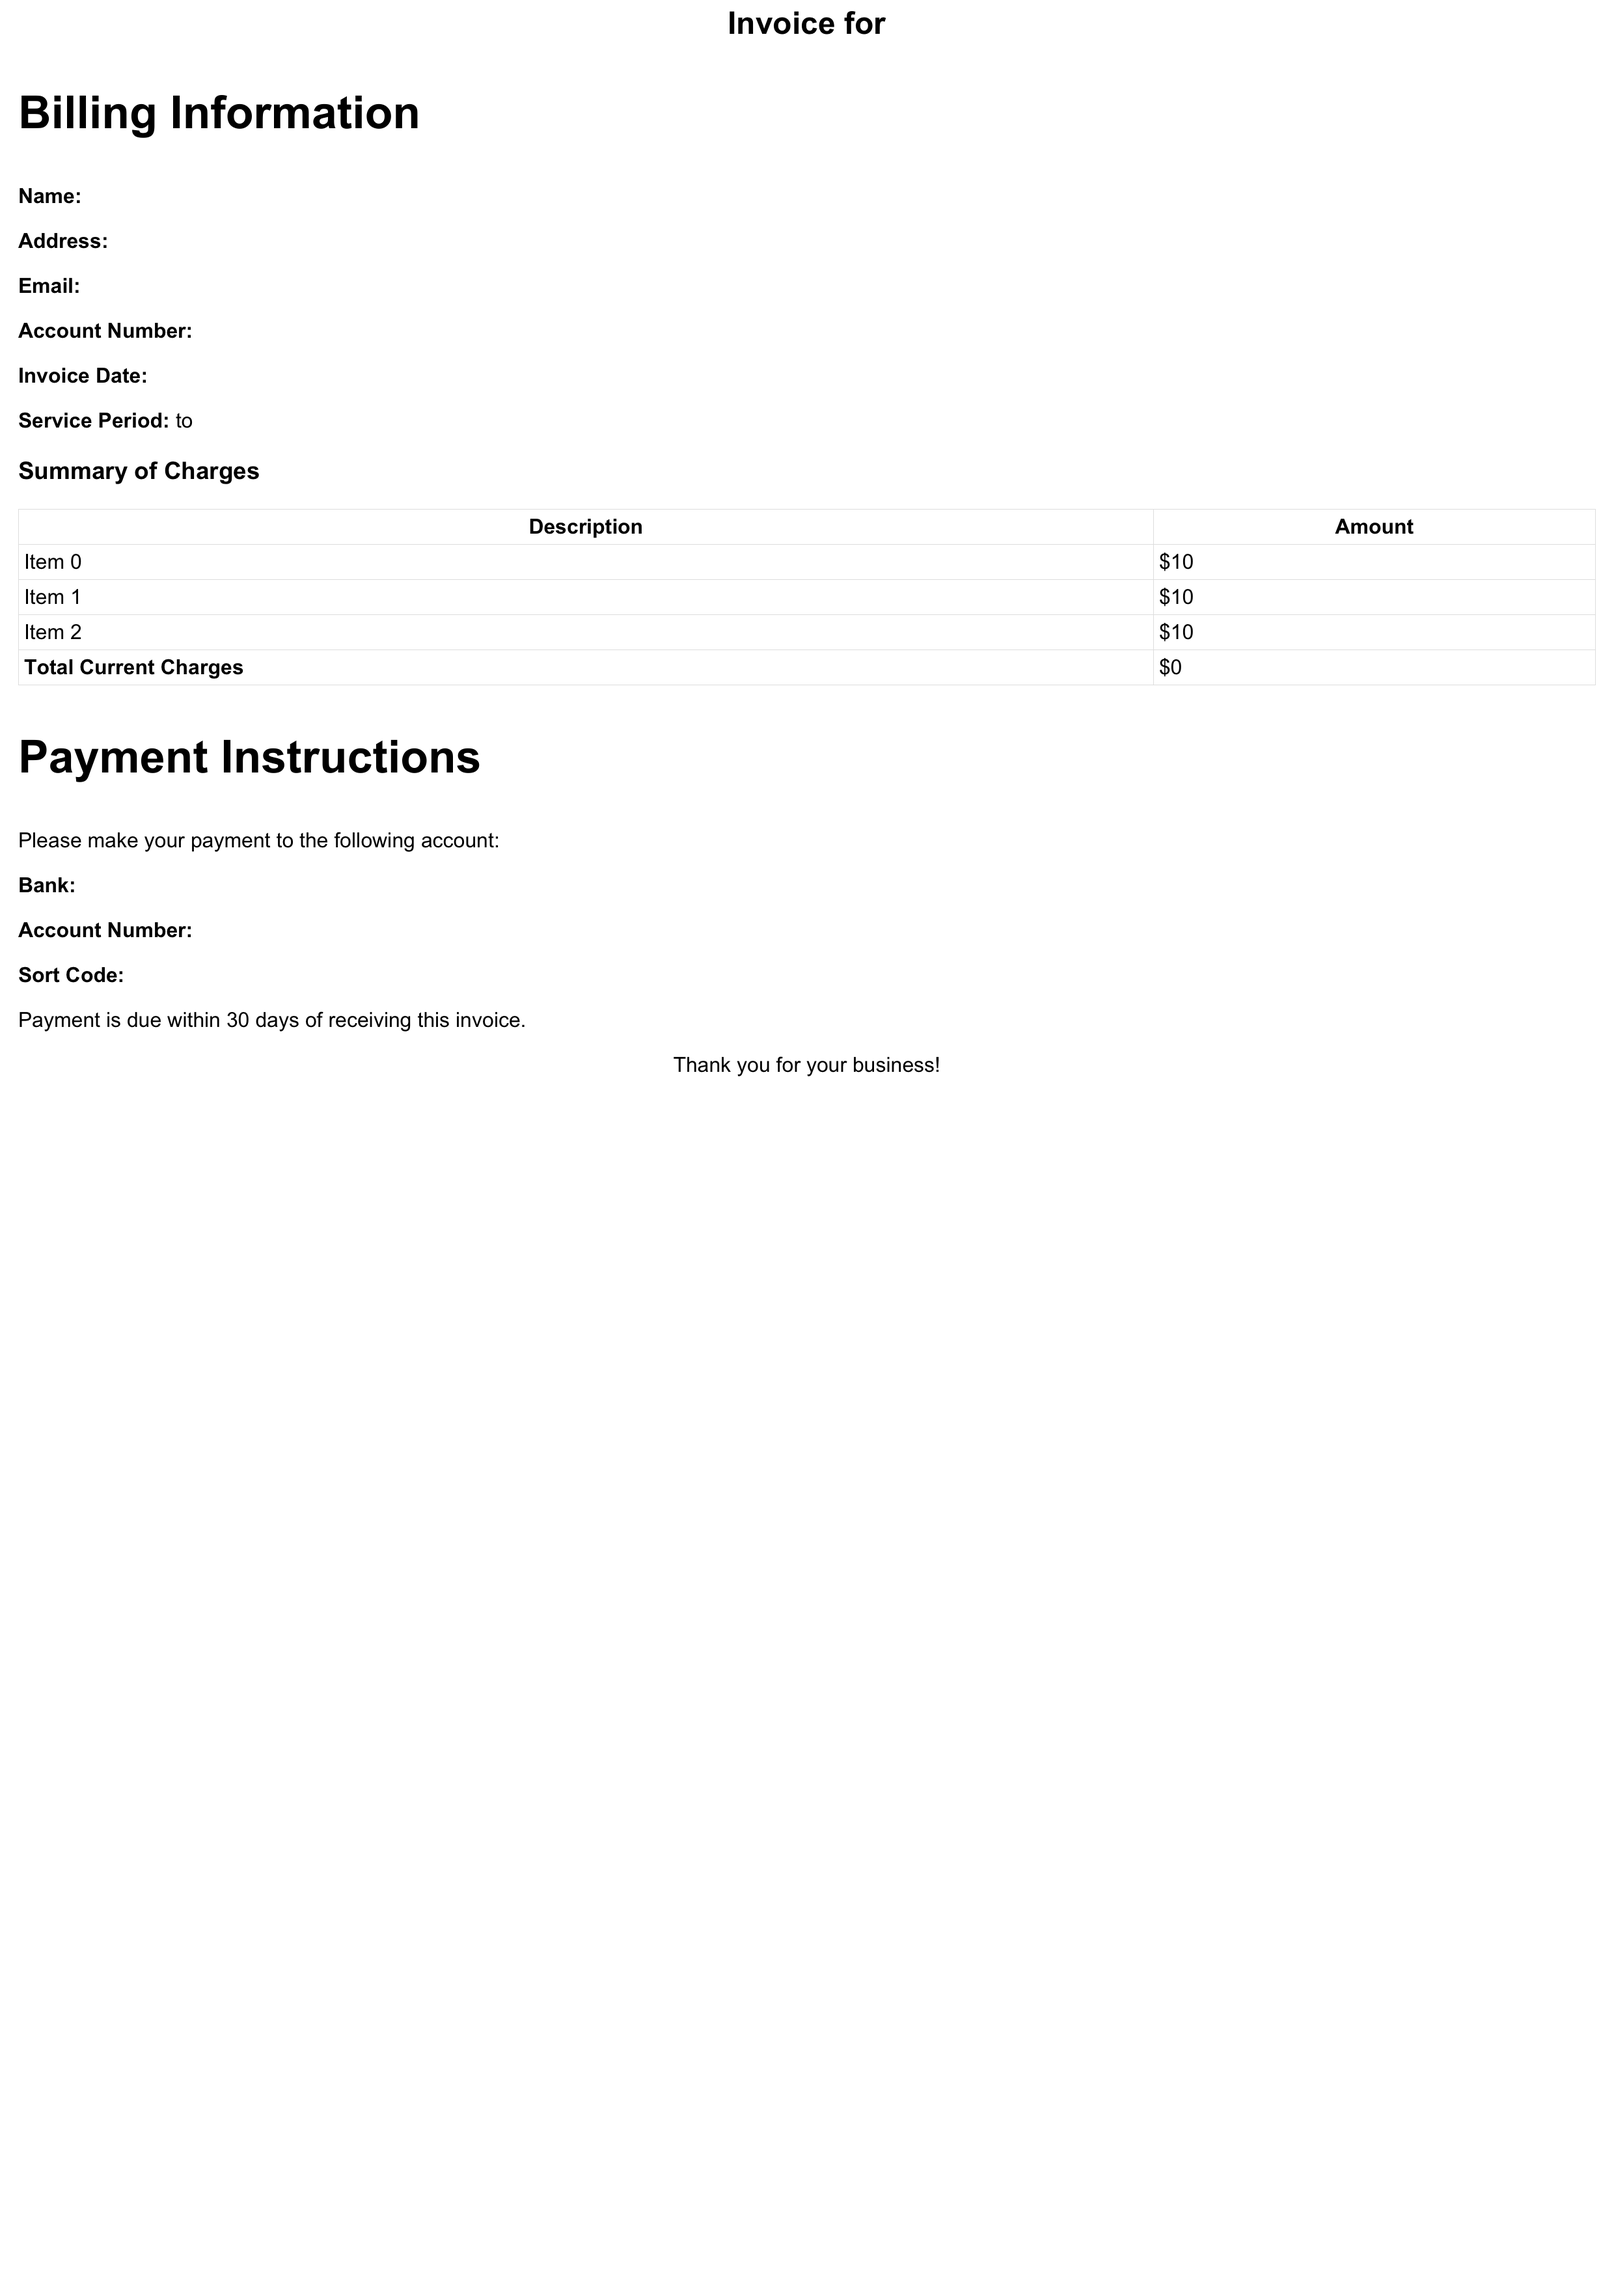
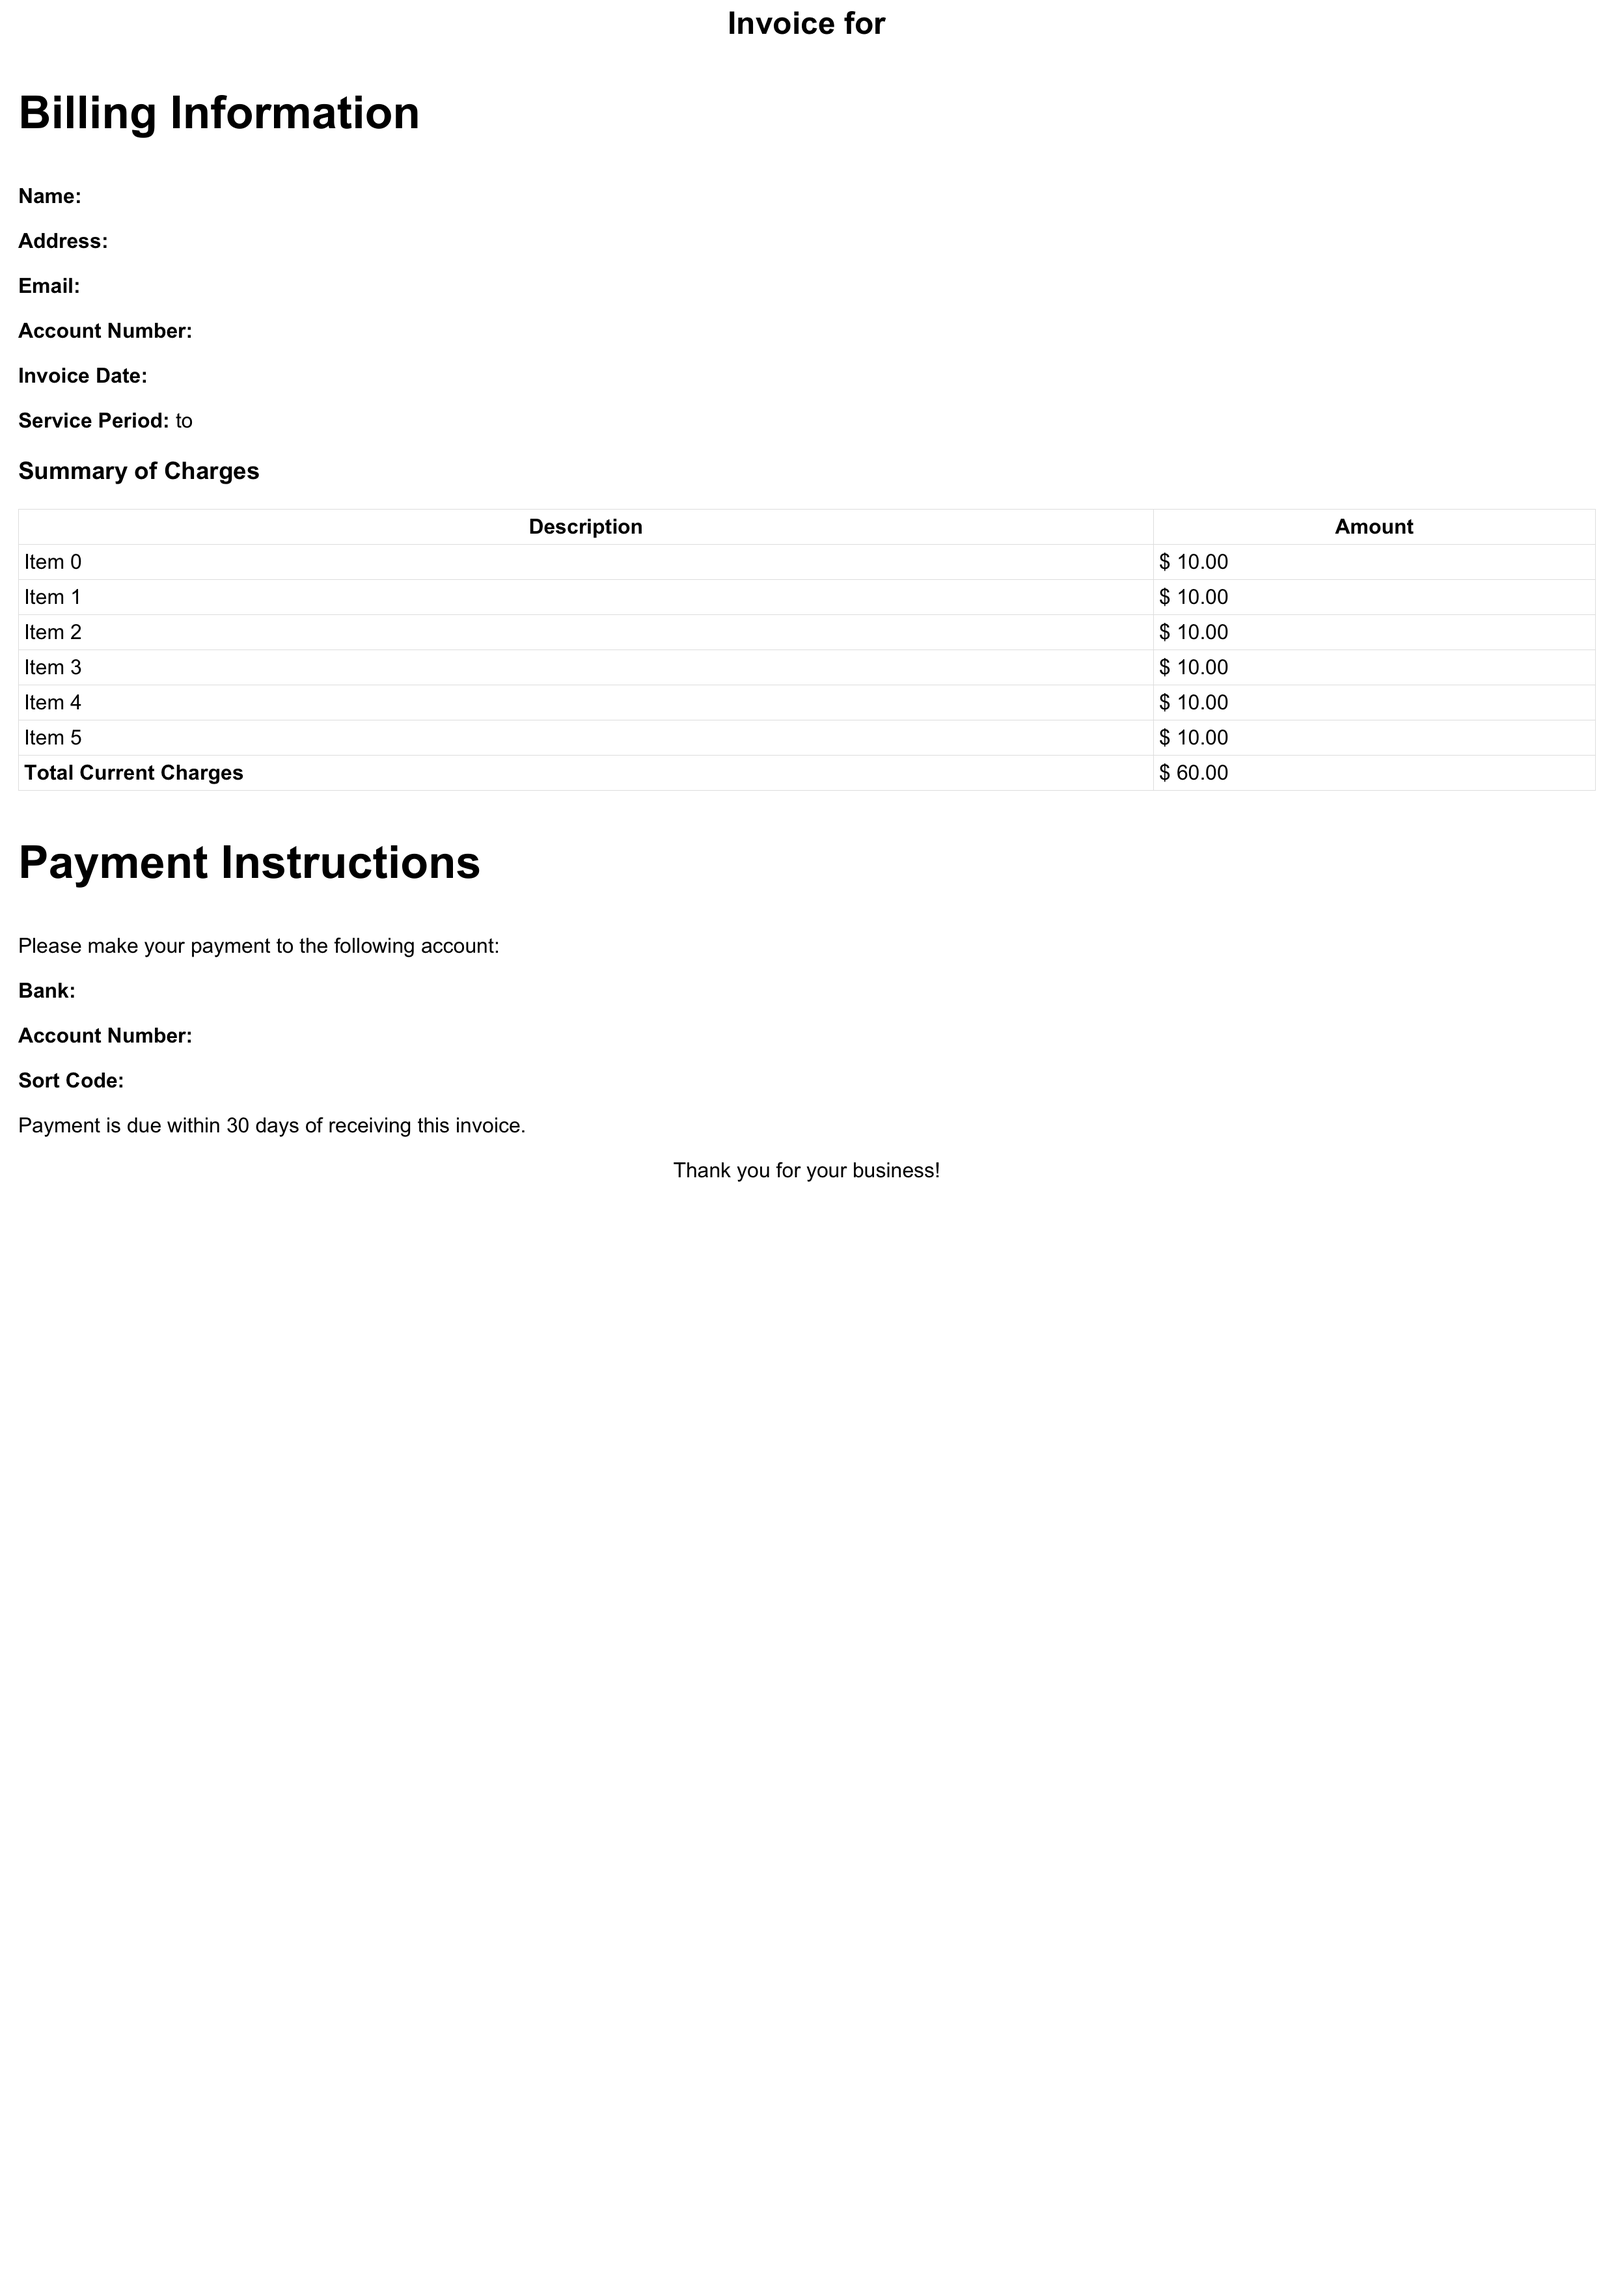
table fix | added terms

Changed region(s): [[0.0, 0.2796, 0.3105, 0.4971], [0.7141, 0.2486, 0.7762, 0.3418]]

diff --git a/synth_data_gen/templates/test.html b/synth_data_gen/templates/test.html
@@ -5,8 +5,9 @@
 <head>
     <meta charset="UTF-8">
     <meta name="viewport" content="width=device-width, initial-scale=1.0">
+    <link rel="stylesheet" href="static/style.css"/>
     <title>Invoice</title>
-    <style>
+    <!-- <style>
         /* Add styles here for formatting the invoice */
         body { font-family: 'Arial', sans-serif; font-size: 2em; }
         .header, .footer { text-align: center; }
@@ -14,7 +15,7 @@
         table { width: 100%; border-collapse: collapse; }
         th, td { border: 1px solid #ddd; padding: 8px; font-size: 2em; }
         .billing-info h3, .payment-instructions h3 { font-size: 2.2em; }
-    </style>
+    </style> -->
 </head>
 <body>
     <div class="header">
@@ -47,6 +48,12 @@
         <p><strong>Account Number:</strong> <span class="bankAccountNumber" data-metatype="String">{{ bankAccountNumber }}</span></p>
         <p><strong>Sort Code:</strong> <span class="sortCode" data-metatype="String">{{ sortCode }}</span></p>
         <p>Payment is due within 30 days of receiving this invoice.</p>
+    </div>
+    <div class="terms">
+        {% set random_number = range(2) | random %}
+        {% if random_number == 1 %}
+            {{ terms }}
+        {% endif %}
     </div>
     <div class="footer">
         <p>Thank you for your business!</p>

diff --git a/synth_data_gen/templates/table_macro.html b/synth_data_gen/templates/table_macro.html
@@ -1,20 +1,19 @@
+{% from "utils_macro.html" import format_dollar_amount %}
 {% macro charges_table(charges) %}
-<table>
+<table class="invoice-table">
     <tr>
         <th>Description</th>
         <th>Amount</th>
-    </tr>
-    {% set totalCurrentCharges = 0 %}
+    </tr>    
     {% for charge in charges %}
-        {% set totalCurrentCharges = totalCurrentCharges + charge.amount %}
         <tr>
             <td>{{ charge.description }}</td>
-            <td>${{ charge.amount }}</td>
+            <td>${{ format_dollar_amount(charge.amount) }}</td>
         </tr>
     {% endfor %}
     <tr>
         <td><strong>Total Current Charges</strong></td>
-        <td><span class="totalCurrentCharges" data-metatype="Number">${{ totalCurrentCharges }}</span></td>
+        <td><span class="totalCurrentCharges" data-metatype="Number">${{ format_dollar_amount(charges | sum(attribute='amount')) }}</span></td>
     </tr>
 </table>
 {% endmacro %}

diff --git a/synth_data_gen/templates/static/style.css b/synth_data_gen/templates/static/style.css
@@ -1,0 +1,27 @@
+.invoice-table {
+    font-family: Arial, sans-serif;
+    width: 80%;
+    margin: 20px auto;
+    border-collapse: collapse;
+}
+
+.invoice-table table {
+    width: 100%;
+    border-collapse: collapse;
+}
+
+.invoice-table th, .invoice-table td {
+    border: 1px solid #ddd;
+    padding: 8px;
+    text-align: left;
+}
+
+.invoice-table th {
+    background-color: #f2f2f2;
+}
+
+.invoice-table tfoot td {
+    font-weight: bold;
+}
+
+.invoice-table tbody tr:nth-child(even){background-color: #f2f2f2;}

diff --git a/synth_data_gen/templates/utils_macro.html b/synth_data_gen/templates/utils_macro.html
@@ -1,0 +1,3 @@
+{% macro format_dollar_amount(value) %}
+    {{ '%0.2f' % value|float }}
+{% endmacro %}

diff --git a/synth_data_gen/generate_from_html.py b/synth_data_gen/generate_from_html.py
@@ -8,6 +8,7 @@ import matplotlib.pyplot as plt
 from faker import Faker
 from jinja2 import Environment, FileSystemLoader, Template
 import random
+from synth_data_gen.utils import read_file
 
 
 pipeline = default_augraphy_pipeline()
@@ -44,7 +45,7 @@ height = 3508
 
 
 
-for i in range(5):
+for i in range(1):
     # np_augmented = pipeline(np_img)
     # pil_augmented = Image.fromarray(np_augmented)
     template = env.get_template('test.html')  # Replace 'test.html' with your actual template name
@@ -66,8 +67,10 @@ for i in range(5):
         {"description": f'Item {i}', "amount": 10} for i in range(num_items)
     ]
 
+    terms = read_file('/Users/arnaudstiegler/llm-table-extraction/synth_data_gen/text_samples/terms.txt')
+
     # Render the template with data
-    output = template.render(charges=charges)    
+    output = template.render(charges=charges, terms=terms)    
 
     # Convert the HTML template to an image
     img = imgkit.from_string(output, None, options={'format': 'png', 'width': width, 'height': height})

diff --git a/synth_data_gen/utils.py b/synth_data_gen/utils.py
@@ -1,0 +1,4 @@
+
+def read_file(file_path):
+    with open(file_path, 'r') as file:
+        return file.read()

diff --git a/synth_data_gen/logs.md b/synth_data_gen/logs.md
@@ -1,4 +1,18 @@
+## Entry 03/25
+### TODO:
+- [x] Fix the jinja macro issue for the table
+- [x] Try creating a paragraph component
+- [] Try adding more "visual" elements to the page (randomizing the styling of the page?)
+- [] Fix the bug on getting style.css
+
 ## Entry 03/24
+
+## TODO:
+- Adjust box/text ratio
+- Set max size for a box
+- Add min/max size for a given component
+- Try out paragraph
+- Try out header
 
 HTML format is much better for anything that's printed semi-structured and unstructured documents. Variability will have to come from modularizing different pieces from the 
 
